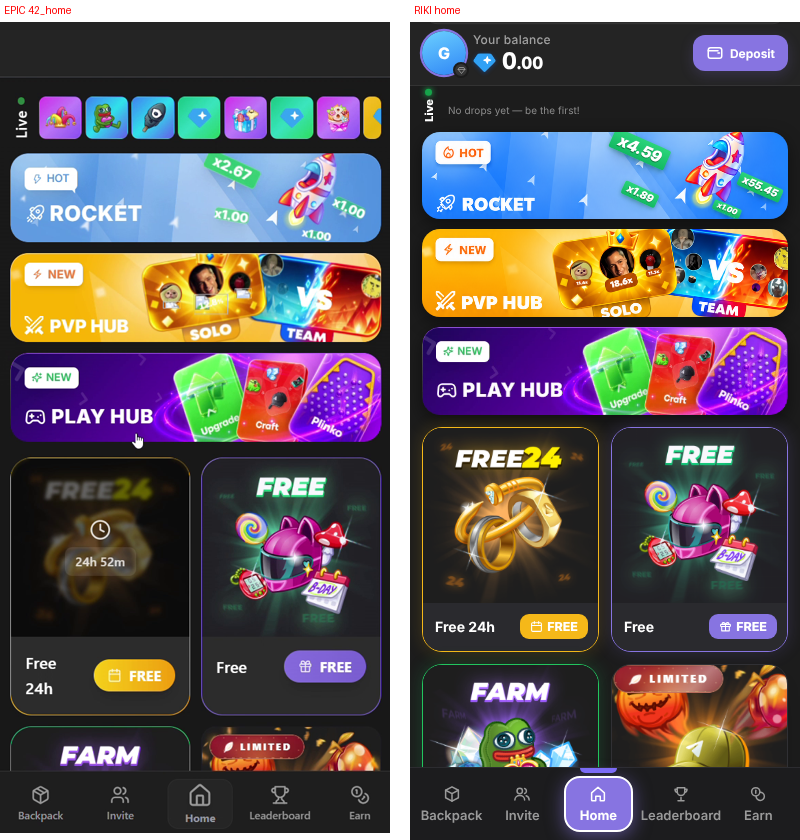
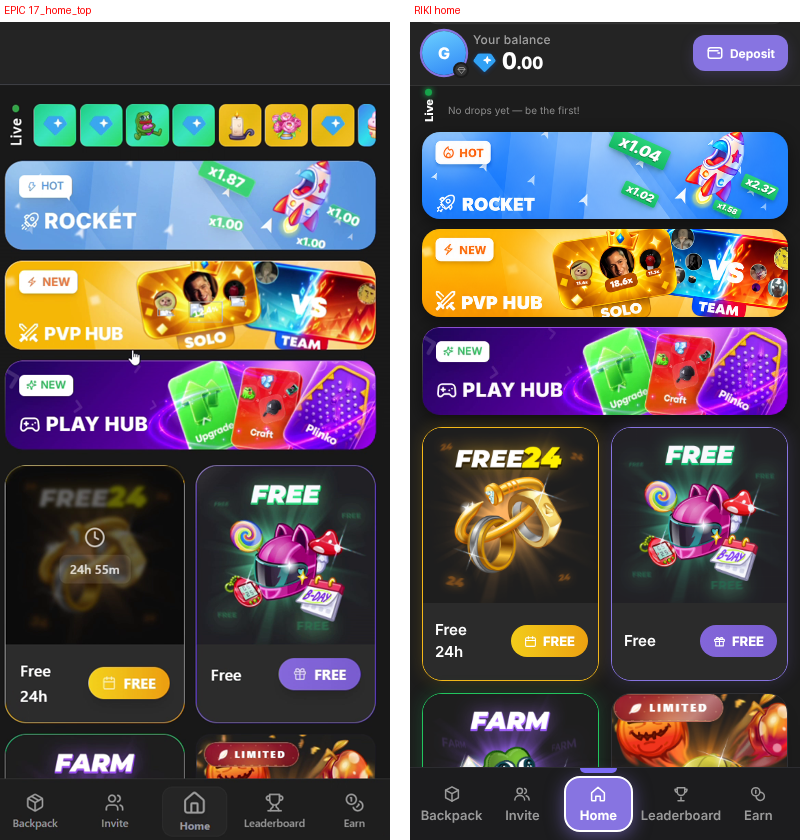
Home kartalari (Free24 panel, FREE tugmalari), pastki menyu Home holatlari, TvT pastki panel, Earn: LIMITED TASKS o'chirildi
Claude-Session: https://claude.ai/code/session_01849NscG7Rx8mj8t26y6oDr

diff --git a/js/screens.js b/js/screens.js
@@ -574,7 +574,7 @@ function boxCard(bx) {
 // HOME: Rocket / PvP Hub / Play Hub bannerlari index.html da.
 // Ulardan keyin Epic kabi: Free24 + Free kartalari, so'ng barcha qutilar bitta 2 ustunli gridda.
 const homeRoot = $('#home');
-const freeCards = `<button class="bx f24" data-go="daily"><div class="art cover"><img src="assets/box/free24.png" alt="Free 24h" decoding="async" draggable="false"><div class="cdov" id="f24cd"><i>${IC.clock}</i><span></span></div></div><div class="ft"><b>Free 24h</b><em class="fy">${IC.cal}FREE</em></div></button>
+const freeCards = `<button class="bx f24" data-go="daily"><div class="art cover"><img src="assets/box/free24.png" alt="Free 24h" decoding="async" draggable="false"><div class="cdov" id="f24cd"><i>${IC.clock}</i><span></span></div></div><div class="ft"><b>Free<br>24h</b><em class="fy">${IC.cal}FREE</em></div></button>
   <button class="bx fre" data-box="free"><div class="art cover"><img src="assets/box/free.png" alt="Free" decoding="async" draggable="false"></div><div class="ft"><b>Free</b><em>${IC.gift}FREE</em></div></button>`;
 if (homeRoot && !$id('boxGrid')) {
   const anchor = homeRoot.querySelector('.epic-home-banners') || homeRoot.lastElementChild;
@@ -830,7 +830,6 @@ function earnRender() {
     return `<div class="tk">${kind === 'lim' ? `<span class="tm">${IC.clock}${hms(LIMEND - Date.now()).replace(/ \d+s$/, '')}</span>` : ''}<div class="hd"><i>${ic}</i><b>${t.n}</b></div><div class="rw"><span>${tk(t.r)}</span>${btn}</div>${s.need ? `<div class="pg"><b style="width:${s.prog / s.need * 100}%"></b></div><div class="pl"><span>Progress: ${s.prog}/${s.need}</span><span>${s.need - s.prog} remaining</span></div>` : ''}</div>`;
   };
   $id('earn').innerHTML = tabs + `<div class="tix"><i><span class="tkic"></span></i><div><small>Your Tickets</small><b>${S.tix}<em>available</em></b></div><button id="tixQ">${IC.info}</button></div>
-  <div class="tkc"><small>${IC.clock.replace('class="ic"', 'class="ic" style="width:12px;height:12px"')}LIMITED TASKS</small>${T5.lim.map(t => tkRow(t, 'lim', IC.plinko)).join('')}</div>
   <div class="tkc"><small>${IC.cal}DAILY TASKS</small>${T5.day.map(t => tkRow(t, 'day', t.act === 'share' ? IC.share : t.act === 'story' ? IC.refresh : IC.cal)).join('')}</div>
   <div class="tkc"><small>${IC.spark}EXTRA TASKS</small>${T5.extra.map(t => tkRow(t, 'extra', IC.wallet)).join('')}</div>
   <div class="tkc"><small>◎ ONE-TIME TASKS</small>${T5.one.map(t => tkRow(t, 'one', t.act === 'vip' ? IC.star : IC.clock)).join('')}</div>`;

diff --git a/css/style.css b/css/style.css
@@ -2566,3 +2566,16 @@ img.dm{object-fit:contain;flex:none}
 .offlv .csp{width:24px;height:24px;border-radius:50%;border:2.5px solid transparent;border-top-color:#635588;border-right-color:#635588;animation:cspR .8s linear infinite;margin-top:120px}
 .offlv small{font-size:12px;color:#9fa0a4}
 @keyframes cspR{to{transform:rotate(360deg)}}
+/* Home Free24 / Free / quti kartalari — frames/17 (A 67.0 s): panel 77 px (Free), 59 px (qutilar); FREE tugmasi 81×32, r16 */
+#home .bx.f24 .ft,#home .bx.fre .ft{height:77px}
+#home .bx .ft b{font-size:15px;font-weight:600;line-height:1.45}
+#home .bx.f24 .ft em,#home .bx.fre .ft em{height:32px;padding:0 13px;border-radius:16px;font-size:13px;font-weight:800;gap:6px}
+#home .bx.f24 .ft em{background:linear-gradient(90deg,#f2cc1a,#eca111)}
+#home .bx.fre .ft em{background:linear-gradient(90deg,#8366d9,#795dcf)}
+#home .bx:not(.f24):not(.fre) .ft{height:59px}
+#home .bx:not(.f24):not(.fre) .ft em{height:32px;border-radius:10px;padding:0 11px;background:linear-gradient(90deg,#8366d9,#795dcf)}
+#home .bx.farm .ft em{background:#22c55e}
+#home .bx .ft{background:#2b2b2b}
+/* Pastki menyu "Home": Home ekranida to'q (#242424, hoshiya #2e2e2e) — frames/17; o'yin/hub ekranlarida binafsha #7d60d2 — frames/07, 44 */
+nav button[data-go="home"],nav button[data-go="home"].on{background:#242424!important;border:1px solid #2e2e2e!important;color:#fff!important;box-shadow:none!important}
+body:not([data-cur="home"]):not([data-cur="backpack"]):not([data-cur="invite"]):not([data-cur="leader"]):not([data-cur="earn"]):not([data-cur="profile"]) nav button[data-go="home"]{background:#7d60d2!important;border-color:#826bcc!important}

diff --git a/css/epic-pvp.css b/css/epic-pvp.css
@@ -15,3 +15,6 @@
 #pvp .dock{position:static!important;margin-top:auto!important;margin-bottom:10px!important}
 /* "YOU" belgisi — frames/19 (A 72 s): fon #433572, matn #8069c7 */
 .youb{display:inline-block;margin-left:6px;padding:1px 6px;border-radius:5px;background:#433572;color:#8069c7;font-size:10px;font-weight:800;vertical-align:1px}
+/* TvT: pastki panel ekran pastida — frames/07 (A 30 s) */
+#tvt.on{display:flex!important;flex-direction:column;min-height:calc(100vh - 54px - 71px)}
+#tvt .dock{position:static!important;margin-top:auto!important;margin-bottom:10px!important}

diff --git a/js/epic-rocket.js b/js/epic-rocket.js
@@ -120,5 +120,6 @@ function ui(now) {
 (function loop(now) { if (cur === 'rocket') { draw(now); ui(now) } requestAnimationFrame(loop) })(performance.now());
 // sarlavha: Rocket ekranida body.e-rk
 const _go = window.go;
-window.go = go = function (id, np) { _go(id, np); document.body.classList.toggle('e-rk', id === 'rocket') };
+window.go = go = function (id, np) { _go(id, np); document.body.classList.toggle('e-rk', id === 'rocket'); document.body.dataset.cur = id };
+document.body.dataset.cur = typeof cur !== 'undefined' ? cur : 'home';
 })();
